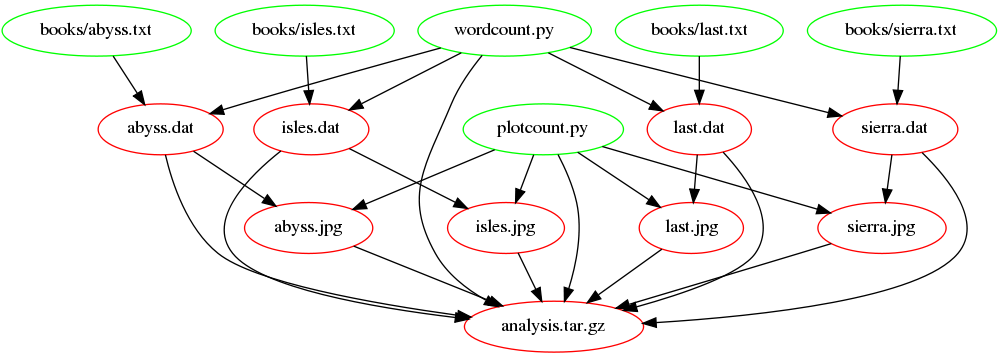
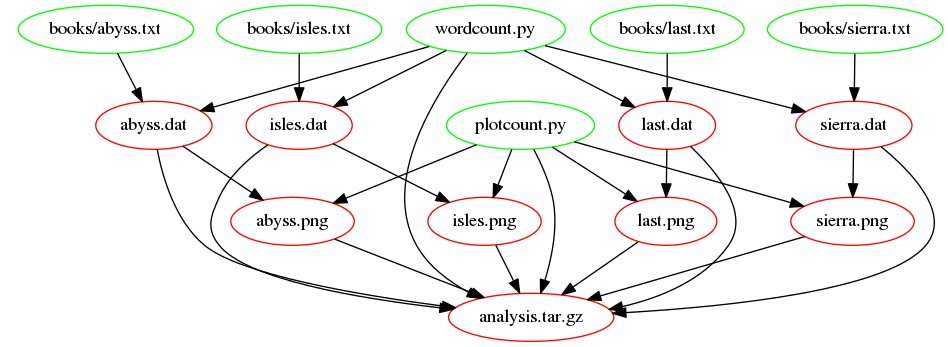
Replaced jpg with png. Suggested in comments of pull request #27 due to issues with Anaconda backends not supporting jpg on certain OSs

diff --git a/solutions.md b/solutions.md
@@ -151,13 +151,13 @@ clean :
 
 ## Lesson 08-variables
 
-> ## Extend the Makefile to create JPEGs {.challenge}
+> ## Extend the Makefile to create PNGs {.challenge}
 >
 > Add new rules, update existing rules, and add new macros to:
 > 
-> * Create `.jpg` files from `.dat` files using `plotcount.py`.
-> * Add the script and `.jpg` files to the archive.
-> * Remove all auto-generated files (`.dat`, `.jpg`,
+> * Create `.png` files from `.dat` files using `plotcount.py`.
+> * Add the script and `.png` files to the archive.
+> * Remove all auto-generated files (`.dat`, `.png`,
 >   `analysis.tar.gz`). 
 
 ~~~{.bash}
@@ -177,10 +177,10 @@ include config.mk
 
 TXT_FILES=$(wildcard books/*.txt)
 DAT_FILES=$(patsubst books/%.txt, %.dat, $(TXT_FILES))
-JPG_FILES=$(patsubst books/%.txt, %.jpg, $(TXT_FILES))
+PNG_FILES=$(patsubst books/%.txt, %.png, $(TXT_FILES))
 
 # Generate archive file.
-analysis.tar.gz : $(DAT_FILES) $(JPG_FILES) $(COUNT_SRC) $(PLOT_SRC)
+analysis.tar.gz : $(DAT_FILES) $(PNG_FILES) $(COUNT_SRC) $(PLOT_SRC)
     tar -czf $@ $^
 
 # Count words.
@@ -191,21 +191,21 @@ dats : $(DAT_FILES)
     $(COUNT_EXE) $< $*.dat
 
 # Plot word counts.
-.PHONY : jpgs
-jpgs : $(JPG_FILES)
+.PHONY : pngs
+pngs : $(PNG_FILES)
 
-%.jpg : %.dat $(PLOT_SRC)
-    $(PLOT_EXE) $*.dat $*.jpg
+%.png : %.dat $(PLOT_SRC)
+    $(PLOT_EXE) $*.dat $*.png
 
 .PHONY : clean
 clean :
     rm -f $(DAT_FILES)
-    rm -f $(JPG_FILES)
+    rm -f $(PNG_FILES)
     rm -f analysis.tar.gz
 
 .PHONY : variables
 variables:
     @echo TXT_FILES: $(TXT_FILES)
     @echo DAT_FILES: $(DAT_FILES)
-    @echo JPG_FILES: $(JPG_FILES)
+    @echo PNG_FILES: $(PNG_FILES)
 ~~~

diff --git a/08-conclusion.md b/08-conclusion.md
@@ -23,13 +23,13 @@ as a form of documentation, recording dependencies between code,
 scripts, tools, configurations, raw data, derived data, plots and
 papers.
 
-> ## Extend the Makefile to create JPEGs {.challenge}
+> ## Extend the Makefile to create PNGs {.challenge}
 >
 > Add new rules, update existing rules, and add new macros to:
 > 
-> * Create `.jpg` files from `.dat` files using `plotcount.py`.
-> * Add the script and `.jpg` files to the archive.
-> * Remove all auto-generated files (`.dat`, `.jpg`,
+> * Create `.png` files from `.dat` files using `plotcount.py`.
+> * Add the script and `.png` files to the archive.
+> * Remove all auto-generated files (`.dat`, `.png`,
 >   `analysis.tar.gz`). 
 
 The following figure shows the dependencies involved in building the `analysis.tar.gz` target, once we've added support for images:

diff --git a/02-makefiles.md b/02-makefiles.md
@@ -46,11 +46,11 @@ by Make. Let us go through each line in turn:
 Our rule above describes how to build the target `isles.dat` using the
 action `python wordcount.py` and the dependency `books/isles.txt`.
 
-Let's first sure we start from scratch and delete the `.dat` and `.jpg`
+Let's first sure we start from scratch and delete the `.dat` and `.png`
 files we created:
 
 ~~~ {.bash}
-$ rm *.dat *.jpg
+$ rm *.dat *.png
 ~~~
 
 By default, Make looks for a Makefile, called `Makefile`, and we can

diff --git a/01-intro.md b/01-intro.md
@@ -66,10 +66,10 @@ $ python plotcount.py isles.dat show
 
 Close the window to exit the plot.
 
-`plotcount.py` can also save the plot as an image (e.g. a JPEG):
+`plotcount.py` can also save the plot as an image (e.g. a PNG file):
 
 ~~~ {.bash}
-$ python plotcount.py isles.dat isles.jpg
+$ python plotcount.py isles.dat isles.png
 ~~~
 
 Together these scripts implement a common workflow:

diff --git a/instructors.md b/instructors.md
@@ -127,7 +127,7 @@ example of the Makefiles on completion of the topic.
 
 ## [Conclusion](08-conclusion.html)
 
-Extend the Makefile to create JPEGs - challenge
+Extend the Makefile to create PNGs - challenge
 
 * Allow 15 minutes.
 * `08-conclusion-challenge/Makefile` and
